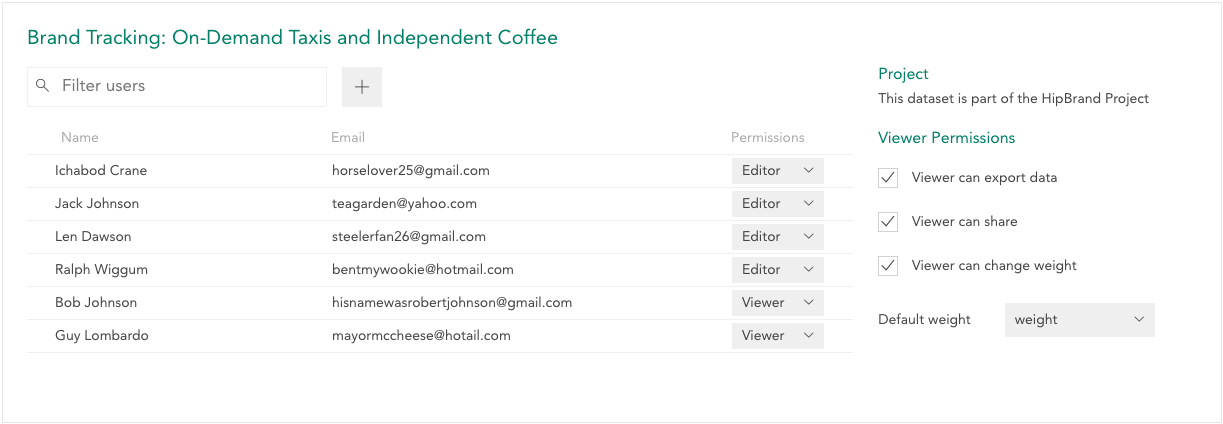
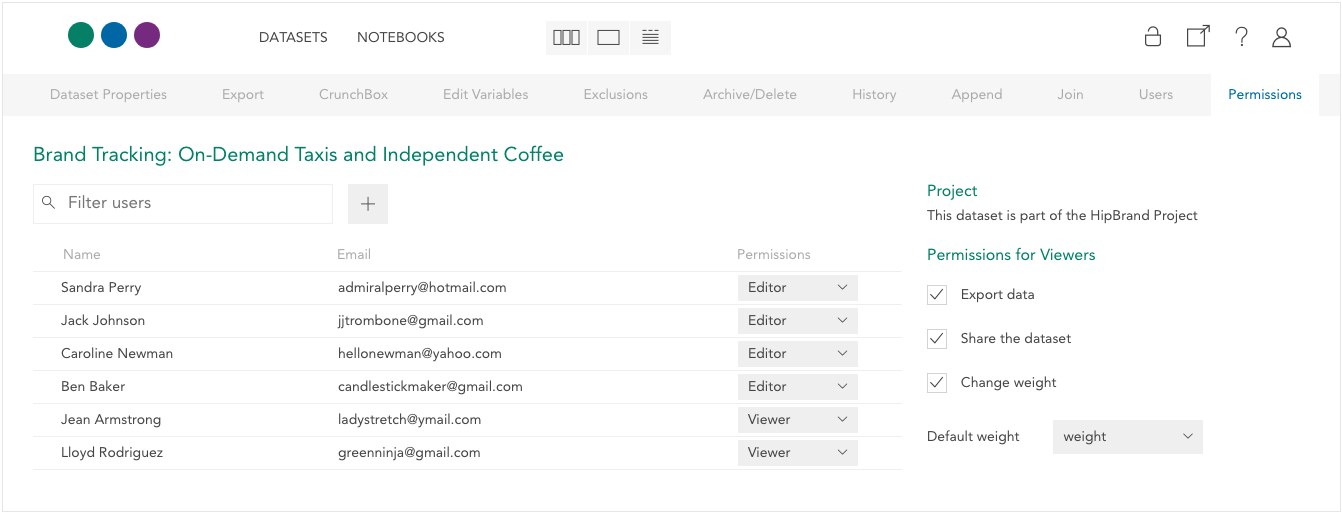
Updated permissions screenshot

diff --git a/_includes/custom/permissions.md b/_includes/custom/permissions.md
@@ -18,6 +18,6 @@ On the right side of the interface, you can set the following permissions for th
 
 **Project** – If this dataset is part of a project, the project name will be shown here. If you have permission to edit the project, click the project name to [modify project permissions](crunch_project-management.html).
 
-**Viewer Permissions** – Determines whether dataset viewers can export the dataset, share the dataset, and change the currently applied weight.
+**Permissions for Viewers** – Determines whether dataset viewers can export the dataset, share the dataset, and change the currently applied weight.
 
 **Default Weight** – Set the weight that will be applied to this dataset by default.
